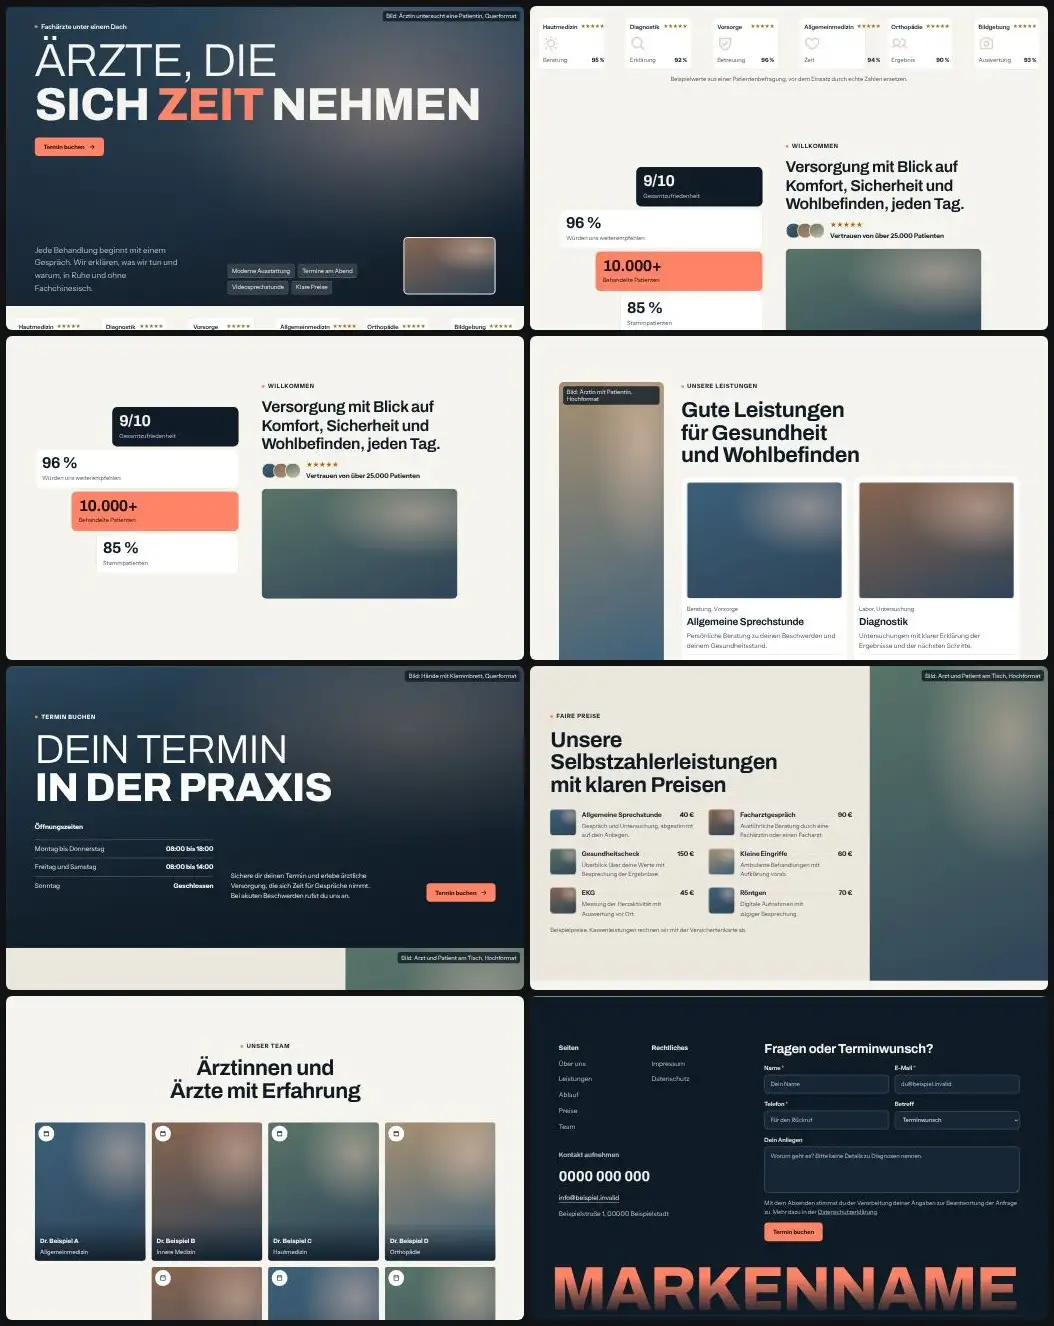
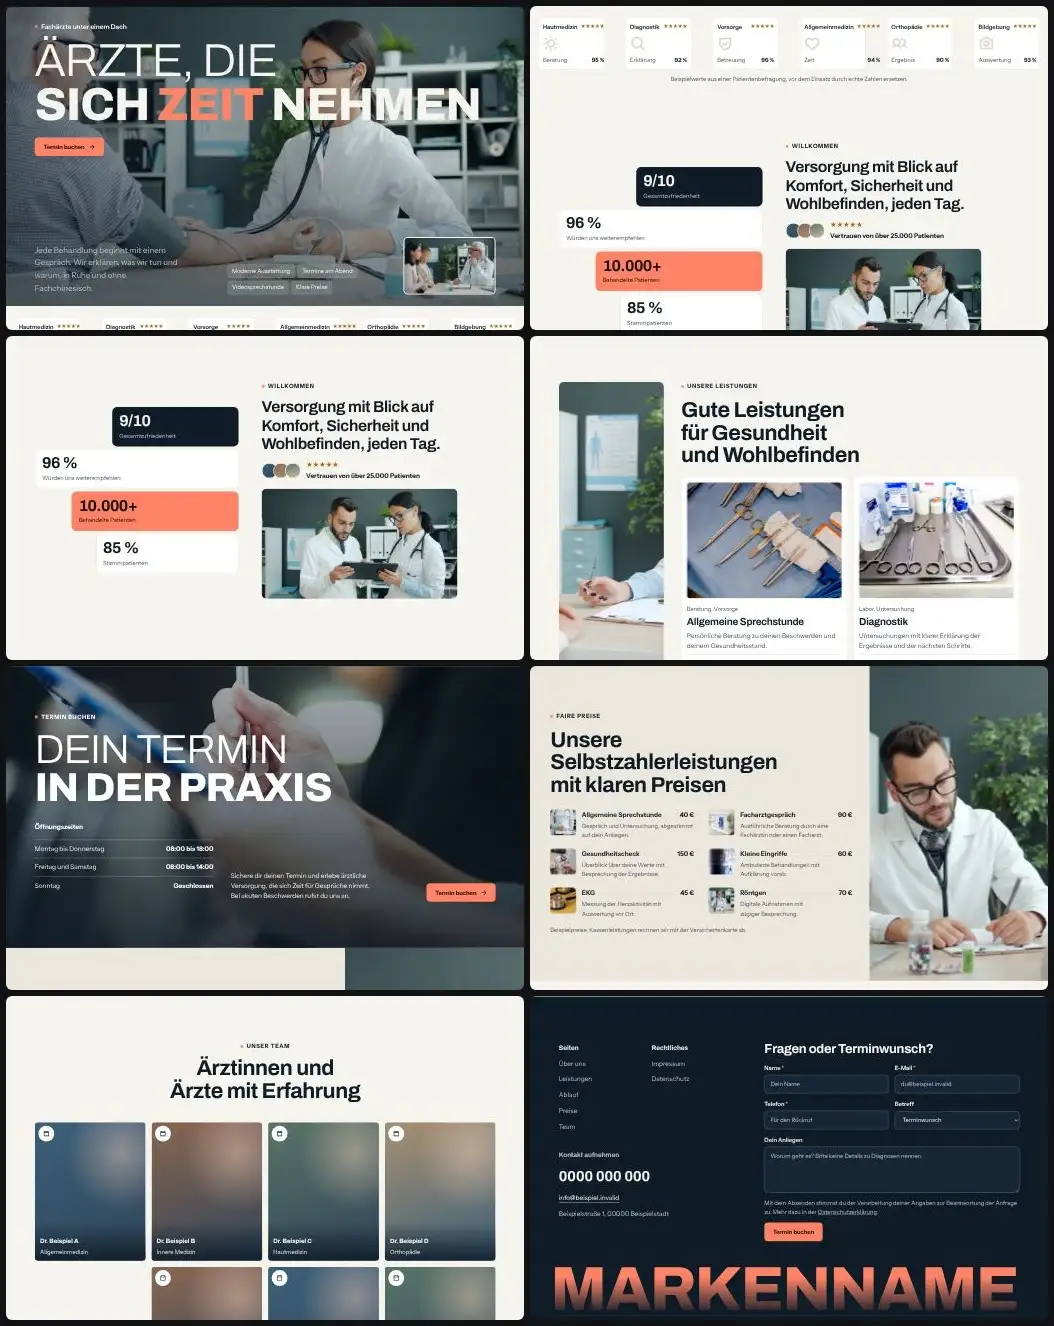
Bibliothek t62: Beispielfotos (Unsplash) eingebaut, Vorschaubilder neu erzeugt
Claude-Session: https://claude.ai/code/session_01DoGuL1bwF3ewggMgZ4Cpvd

diff --git a/skills/webdesign-conversion/assets/vorlagen/bibliothek/t62/index.html b/skills/webdesign-conversion/assets/vorlagen/bibliothek/t62/index.html
@@ -62,7 +62,7 @@
 <main id="inhalt">
   <!-- 1. Held: dunkles Vollbild, riesige Versalschrift, Zeile mit Text, Merkmalen und Bildausschnitt -->
   <section class="held" id="top" aria-labelledby="h-held" data-abdunkeln>
-    <div class="bild held__bild bild--a" data-platzhalter="Bild: Ärztin untersucht eine Patientin, Querformat" role="img" aria-label="Platzhalter für ein Foto einer Untersuchung"></div>
+    <div class="bild held__bild bild--a"><img src="bilder/fa-blutdruck-messen.webp" width="1600" height="900" alt="Eine Ärztin misst den Blutdruck eines älteren Patienten" loading="lazy" decoding="async"></div>
     <div class="held__schleier" aria-hidden="true"></div>
     <div class="wrap held__innen">
       <div class="held__kopf" data-staffel>
@@ -78,7 +78,7 @@
           <li>Videosprechstunde</li>
           <li>Klare Preise</li>
         </ul>
-        <div class="bild held__ausschnitt bild--b" data-zeig="skala" role="img" aria-label="Platzhalter für ein Foto eines Arztes im Gespräch" data-platzhalter="Bild: Arzt im Gespräch"></div>
+        <div class="bild held__ausschnitt bild--b" data-zeig="skala"><img src="bilder/fa-arzt-gespraech.webp" width="800" height="450" alt="Ein Arzt im Gespräch am Schreibtisch" loading="lazy" decoding="async"></div>
       </div>
     </div>
   </section>
@@ -122,7 +122,7 @@
           <span class="avatare" aria-hidden="true"><i class="avatar--1"></i><i class="avatar--2"></i><i class="avatar--3"></i></span>
           <p><span class="ueber__sterne" aria-hidden="true">★★★★★</span><strong>Vertrauen von über 25.000 Patienten</strong></p>
         </div>
-        <div class="bild ueber__bild bild--c" data-zeig="skala" role="img" aria-label="Platzhalter für ein Foto eines Arztes mit Tablet" data-platzhalter="Bild: Arzt mit Tablet"></div>
+        <div class="bild ueber__bild bild--c" data-zeig="skala"><img src="bilder/fa-aerzte-tablet.webp" width="1000" height="563" alt="Zwei Ärzte besprechen sich an einem Tablet" loading="lazy" decoding="async"></div>
       </div>
     </div>
   </section>
@@ -130,17 +130,17 @@
   <!-- 4. Leistungen: hohes Bild bleibt stehen, Karten rechts -->
   <section class="sektion leistungen" id="leistungen" aria-labelledby="h-leistungen" data-reiter-gruppe>
     <div class="wrap leistungen__raster">
-      <div class="bild leistungen__bild bild--d" role="img" aria-label="Platzhalter für ein Foto einer Ärztin mit Patientin" data-platzhalter="Bild: Ärztin mit Patientin, Hochformat"></div>
+      <div class="bild leistungen__bild bild--d"><img src="bilder/fa-aerztin-patient.webp" width="800" height="450" alt="Eine Ärztin im Gespräch mit einem Patienten am Schreibtisch" loading="lazy" decoding="async"></div>
       <div class="leistungen__inhalt">
         <p class="ueber__kicker" data-zeig><span class="punkt" aria-hidden="true"></span>Unsere Leistungen</p>
         <h2 id="h-leistungen" data-zeig>Gute Leistungen für Gesundheit und Wohlbefinden</h2>
         <ul class="spur" data-reiter-spur tabindex="0" role="region" aria-label="Leistungen, seitlich wischen" data-staffel>
-          <li data-zeig><article class="lkarte"><div class="bild lkarte__bild bild--a" role="img" aria-label="Platzhalter für ein Foto" data-platzhalter="Bild"></div><p class="lkarte__tags">Beratung, Vorsorge</p><h3>Allgemeine Sprechstunde</h3><p>Persönliche Beratung zu deinen Beschwerden und deinem Gesundheitsstand.</p><a class="lkarte__mehr" href="#kontakt"><span>Mehr erfahren</span><span class="plus" aria-hidden="true"><svg width="16" height="16" focusable="false"><use href="#i-plus"/></svg></span></a></article></li>
-          <li data-zeig><article class="lkarte"><div class="bild lkarte__bild bild--b" role="img" aria-label="Platzhalter für ein Foto" data-platzhalter="Bild"></div><p class="lkarte__tags">Labor, Untersuchung</p><h3>Diagnostik</h3><p>Untersuchungen mit klarer Erklärung der Ergebnisse und der nächsten Schritte.</p><a class="lkarte__mehr" href="#kontakt"><span>Mehr erfahren</span><span class="plus" aria-hidden="true"><svg width="16" height="16" focusable="false"><use href="#i-plus"/></svg></span></a></article></li>
-          <li data-zeig><article class="lkarte"><div class="bild lkarte__bild bild--c" role="img" aria-label="Platzhalter für ein Foto" data-platzhalter="Bild"></div><p class="lkarte__tags">Gelenke, Bewegung</p><h3>Orthopädie</h3><p>Beratung und Behandlung bei Beschwerden von Rücken, Gelenken und Muskeln.</p><a class="lkarte__mehr" href="#kontakt"><span>Mehr erfahren</span><span class="plus" aria-hidden="true"><svg width="16" height="16" focusable="false"><use href="#i-plus"/></svg></span></a></article></li>
-          <li data-zeig><article class="lkarte"><div class="bild lkarte__bild bild--d" role="img" aria-label="Platzhalter für ein Foto" data-platzhalter="Bild"></div><p class="lkarte__tags">Vorsorge, Kontrolle</p><h3>Herz und Kreislauf</h3><p>Regelmäßige Kontrollen und Gespräche, damit du deine Werte im Blick behältst.</p><a class="lkarte__mehr" href="#kontakt"><span>Mehr erfahren</span><span class="plus" aria-hidden="true"><svg width="16" height="16" focusable="false"><use href="#i-plus"/></svg></span></a></article></li>
-          <li data-zeig><article class="lkarte"><div class="bild lkarte__bild bild--b" role="img" aria-label="Platzhalter für ein Foto" data-platzhalter="Bild"></div><p class="lkarte__tags">Prophylaxe, Behandlung</p><h3>Zahnmedizin</h3><p>Vorsorge und Behandlung für gesunde Zähne, ohne Hektik im Behandlungsstuhl.</p><a class="lkarte__mehr" href="#kontakt"><span>Mehr erfahren</span><span class="plus" aria-hidden="true"><svg width="16" height="16" focusable="false"><use href="#i-plus"/></svg></span></a></article></li>
-          <li data-zeig><article class="lkarte"><div class="bild lkarte__bild bild--a" role="img" aria-label="Platzhalter für ein Foto" data-platzhalter="Bild"></div><p class="lkarte__tags">Röntgen, Auswertung</p><h3>Bildgebung</h3><p>Aufnahmen mit schneller Auswertung und einer Besprechung, die du verstehst.</p><a class="lkarte__mehr" href="#kontakt"><span>Mehr erfahren</span><span class="plus" aria-hidden="true"><svg width="16" height="16" focusable="false"><use href="#i-plus"/></svg></span></a></article></li>
+          <li data-zeig><article class="lkarte"><div class="bild lkarte__bild bild--a"><img src="bilder/fa-instrumente-tuch.webp" width="600" height="400" alt="Medizinische Instrumente auf einem blauen Tuch" loading="lazy" decoding="async"></div><p class="lkarte__tags">Beratung, Vorsorge</p><h3>Allgemeine Sprechstunde</h3><p>Persönliche Beratung zu deinen Beschwerden und deinem Gesundheitsstand.</p><a class="lkarte__mehr" href="#kontakt"><span>Mehr erfahren</span><span class="plus" aria-hidden="true"><svg width="16" height="16" focusable="false"><use href="#i-plus"/></svg></span></a></article></li>
+          <li data-zeig><article class="lkarte"><div class="bild lkarte__bild bild--b"><img src="bilder/fa-instrumente-tablett.webp" width="600" height="400" alt="Metalltablett mit Scheren und Verbandsmaterial" loading="lazy" decoding="async"></div><p class="lkarte__tags">Labor, Untersuchung</p><h3>Diagnostik</h3><p>Untersuchungen mit klarer Erklärung der Ergebnisse und der nächsten Schritte.</p><a class="lkarte__mehr" href="#kontakt"><span>Mehr erfahren</span><span class="plus" aria-hidden="true"><svg width="16" height="16" focusable="false"><use href="#i-plus"/></svg></span></a></article></li>
+          <li data-zeig><article class="lkarte"><div class="bild lkarte__bild bild--c"><img src="bilder/fa-stethoskop-schwarzweiss.webp" width="600" height="450" alt="Stethoskope in Schwarzweiß" loading="lazy" decoding="async"></div><p class="lkarte__tags">Gelenke, Bewegung</p><h3>Orthopädie</h3><p>Beratung und Behandlung bei Beschwerden von Rücken, Gelenken und Muskeln.</p><a class="lkarte__mehr" href="#kontakt"><span>Mehr erfahren</span><span class="plus" aria-hidden="true"><svg width="16" height="16" focusable="false"><use href="#i-plus"/></svg></span></a></article></li>
+          <li data-zeig><article class="lkarte"><div class="bild lkarte__bild bild--d"><img src="bilder/fa-blutdruckmessgeraet.webp" width="600" height="400" alt="Digitales Blutdruckmessgerät mit Manschette am Arm" loading="lazy" decoding="async"></div><p class="lkarte__tags">Vorsorge, Kontrolle</p><h3>Herz und Kreislauf</h3><p>Regelmäßige Kontrollen und Gespräche, damit du deine Werte im Blick behältst.</p><a class="lkarte__mehr" href="#kontakt"><span>Mehr erfahren</span><span class="plus" aria-hidden="true"><svg width="16" height="16" focusable="false"><use href="#i-plus"/></svg></span></a></article></li>
+          <li data-zeig><article class="lkarte"><div class="bild lkarte__bild bild--b"><img src="bilder/fa-ekg-streifen.webp" width="600" height="400" alt="Hände mit Handschuhen auf einem EKG Streifen, daneben ein Stethoskop" loading="lazy" decoding="async"></div><p class="lkarte__tags">Prophylaxe, Behandlung</p><h3>Zahnmedizin</h3><p>Vorsorge und Behandlung für gesunde Zähne, ohne Hektik im Behandlungsstuhl.</p><a class="lkarte__mehr" href="#kontakt"><span>Mehr erfahren</span><span class="plus" aria-hidden="true"><svg width="16" height="16" focusable="false"><use href="#i-plus"/></svg></span></a></article></li>
+          <li data-zeig><article class="lkarte"><div class="bild lkarte__bild bild--a"><img src="bilder/fa-stethoskop-blau.webp" width="600" height="400" alt="Stethoskop auf hellblauem Hintergrund" loading="lazy" decoding="async"></div><p class="lkarte__tags">Röntgen, Auswertung</p><h3>Bildgebung</h3><p>Aufnahmen mit schneller Auswertung und einer Besprechung, die du verstehst.</p><a class="lkarte__mehr" href="#kontakt"><span>Mehr erfahren</span><span class="plus" aria-hidden="true"><svg width="16" height="16" focusable="false"><use href="#i-plus"/></svg></span></a></article></li>
         </ul>
         <div class="steuerung" data-reiter-steuerung hidden>
           <button class="rund" type="button" data-reiter="zurueck" aria-label="Vorherige Leistung"><svg width="20" height="20" aria-hidden="true" focusable="false"><use href="#i-arrow-left"/></svg></button>
@@ -163,15 +163,15 @@
         <ol class="ablauf__schritte">
           <li class="schritt" data-schritt data-aktiv>
             <div class="schritt__text"><span class="schritt__buchstabe" aria-hidden="true">A</span><h3>Fachbereich und Arzt finden</h3><p>Sieh dir unsere Fachbereiche an und wähle den Bereich, der zu deinem Anliegen passt. Du siehst, wer dich behandelt.</p><a class="knopf" href="#kontakt">Kontakt aufnehmen<svg width="18" height="18" aria-hidden="true" focusable="false"><use href="#i-arrow-right"/></svg></a></div>
-            <div class="bild schritt__bild bild--a" role="img" aria-label="Platzhalter für ein Foto von zwei Händen" data-platzhalter="Bild: Hände, Nahaufnahme"></div>
+            <div class="bild schritt__bild bild--a"><img src="bilder/fa-haende-klemmbrett.webp" width="1000" height="667" alt="Hände schreiben mit einem Stift auf ein Klemmbrett" loading="lazy" decoding="async"></div>
           </li>
           <li class="schritt" data-schritt>
             <div class="schritt__text"><span class="schritt__buchstabe" aria-hidden="true">B</span><h3>Einen Termin buchen, der in deinen Tag passt</h3><p>Wähle Arzt, Datum und Uhrzeit. Du bestätigst über das Formular oder per Telefon und bekommst eine Erinnerung.</p><a class="knopf" href="#kontakt">Kontakt aufnehmen<svg width="18" height="18" aria-hidden="true" focusable="false"><use href="#i-arrow-right"/></svg></a></div>
-            <div class="bild schritt__bild bild--c" role="img" aria-label="Platzhalter für ein Foto einer Frau mit Telefon" data-platzhalter="Bild: Frau bucht per Telefon"></div>
+            <div class="bild schritt__bild bild--c"><img src="bilder/fa-frau-telefon-laptop.webp" width="1000" height="563" alt="Eine Frau telefoniert am Schreibtisch vor einem Laptop" loading="lazy" decoding="async"></div>
           </li>
           <li class="schritt" data-schritt>
             <div class="schritt__text"><span class="schritt__buchstabe" aria-hidden="true">C</span><h3>Persönlich betreut werden</h3><p>Wir besprechen dein Anliegen, erklären die nächsten Schritte und bleiben auch danach für Rückfragen erreichbar.</p><a class="knopf" href="#kontakt">Kontakt aufnehmen<svg width="18" height="18" aria-hidden="true" focusable="false"><use href="#i-arrow-right"/></svg></a></div>
-            <div class="bild schritt__bild bild--b" role="img" aria-label="Platzhalter für ein Foto eines Beratungsgesprächs" data-platzhalter="Bild: Beratungsgespräch"></div>
+            <div class="bild schritt__bild bild--b"><img src="bilder/fa-gespraech-schreibtisch.webp" width="1000" height="563" alt="Gespräch am Schreibtisch in einer Praxis" loading="lazy" decoding="async"></div>
           </li>
         </ol>
         <ol class="stufen" aria-label="Schritte" hidden>
@@ -185,7 +185,7 @@
 
   <!-- 6. Termin: dunkles Vollbild mit Öffnungszeiten -->
   <section class="buchung" id="termin" aria-labelledby="h-buchung">
-    <div class="bild buchung__bild bild--e" role="img" aria-label="Platzhalter für ein Foto von Händen mit Klemmbrett" data-platzhalter="Bild: Hände mit Klemmbrett, Querformat"></div>
+    <div class="bild buchung__bild bild--e"><img src="bilder/fa-stift-klemmbrett-blau.webp" width="1000" height="667" alt="Eine Hand hält einen Stift über einem blauen Klemmbrett" loading="lazy" decoding="async"></div>
     <div class="buchung__schleier" aria-hidden="true"></div>
     <div class="wrap buchung__innen">
       <p class="ueber__kicker ueber__kicker--hell" data-zeig><span class="punkt" aria-hidden="true"></span>Termin buchen</p>
@@ -212,16 +212,16 @@
         <p class="ueber__kicker" data-zeig><span class="punkt" aria-hidden="true"></span>Faire Preise</p>
         <h2 id="h-preise" data-zeig>Unsere Selbstzahlerleistungen mit klaren Preisen</h2>
         <ul class="preisliste" data-staffel data-beispiel>
-          <li data-zeig><div class="bild preisliste__bild bild--a" role="img" aria-label="Platzhalter für ein Foto" data-platzhalter="Bild"></div><div><p class="preisliste__kopf"><strong>Allgemeine Sprechstunde</strong><span class="preisliste__linie" aria-hidden="true"></span><span class="preisliste__preis">40 €</span></p><p>Gespräch und Untersuchung, abgestimmt auf dein Anliegen.</p></div></li>
-          <li data-zeig><div class="bild preisliste__bild bild--b" role="img" aria-label="Platzhalter für ein Foto" data-platzhalter="Bild"></div><div><p class="preisliste__kopf"><strong>Facharztgespräch</strong><span class="preisliste__linie" aria-hidden="true"></span><span class="preisliste__preis">90 €</span></p><p>Ausführliche Beratung durch eine Fachärztin oder einen Facharzt.</p></div></li>
-          <li data-zeig><div class="bild preisliste__bild bild--c" role="img" aria-label="Platzhalter für ein Foto" data-platzhalter="Bild"></div><div><p class="preisliste__kopf"><strong>Gesundheitscheck</strong><span class="preisliste__linie" aria-hidden="true"></span><span class="preisliste__preis">150 €</span></p><p>Überblick über deine Werte mit Besprechung der Ergebnisse.</p></div></li>
-          <li data-zeig><div class="bild preisliste__bild bild--d" role="img" aria-label="Platzhalter für ein Foto" data-platzhalter="Bild"></div><div><p class="preisliste__kopf"><strong>Kleine Eingriffe</strong><span class="preisliste__linie" aria-hidden="true"></span><span class="preisliste__preis">60 €</span></p><p>Ambulante Behandlungen mit Aufklärung vorab.</p></div></li>
-          <li data-zeig><div class="bild preisliste__bild bild--b" role="img" aria-label="Platzhalter für ein Foto" data-platzhalter="Bild"></div><div><p class="preisliste__kopf"><strong>EKG</strong><span class="preisliste__linie" aria-hidden="true"></span><span class="preisliste__preis">45 €</span></p><p>Messung der Herzaktivität mit Auswertung vor Ort.</p></div></li>
-          <li data-zeig><div class="bild preisliste__bild bild--a" role="img" aria-label="Platzhalter für ein Foto" data-platzhalter="Bild"></div><div><p class="preisliste__kopf"><strong>Röntgen</strong><span class="preisliste__linie" aria-hidden="true"></span><span class="preisliste__preis">70 €</span></p><p>Digitale Aufnahmen mit zügiger Besprechung.</p></div></li>
+          <li data-zeig><div class="bild preisliste__bild bild--a"><img src="bilder/fa-notizen-kittel.webp" width="600" height="338" alt="Eine Ärztin schreibt Notizen auf ein Klemmbrett" loading="lazy" decoding="async"></div><div><p class="preisliste__kopf"><strong>Allgemeine Sprechstunde</strong><span class="preisliste__linie" aria-hidden="true"></span><span class="preisliste__preis">40 €</span></p><p>Gespräch und Untersuchung, abgestimmt auf dein Anliegen.</p></div></li>
+          <li data-zeig><div class="bild preisliste__bild bild--b"><img src="bilder/fa-wandanschluss-medizin.webp" width="600" height="399" alt="Medizinischer Wandanschluss mit Durchflussmesser" loading="lazy" decoding="async"></div><div><p class="preisliste__kopf"><strong>Facharztgespräch</strong><span class="preisliste__linie" aria-hidden="true"></span><span class="preisliste__preis">90 €</span></p><p>Ausführliche Beratung durch eine Fachärztin oder einen Facharzt.</p></div></li>
+          <li data-zeig><div class="bild preisliste__bild bild--c"><img src="bilder/fa-blutzucker-messen.webp" width="600" height="400" alt="Hände beim Messen des Blutzuckers" loading="lazy" decoding="async"></div><div><p class="preisliste__kopf"><strong>Gesundheitscheck</strong><span class="preisliste__linie" aria-hidden="true"></span><span class="preisliste__preis">150 €</span></p><p>Überblick über deine Werte mit Besprechung der Ergebnisse.</p></div></li>
+          <li data-zeig><div class="bild preisliste__bild bild--d"><img src="bilder/fa-geraete-regal.webp" width="600" height="400" alt="Medizinische Geräte in einem Regal" loading="lazy" decoding="async"></div><div><p class="preisliste__kopf"><strong>Kleine Eingriffe</strong><span class="preisliste__linie" aria-hidden="true"></span><span class="preisliste__preis">60 €</span></p><p>Ambulante Behandlungen mit Aufklärung vorab.</p></div></li>
+          <li data-zeig><div class="bild preisliste__bild bild--b"><img src="bilder/fa-stethoskop-gelb.webp" width="600" height="400" alt="Stethoskop auf gelbem Hintergrund" loading="lazy" decoding="async"></div><div><p class="preisliste__kopf"><strong>EKG</strong><span class="preisliste__linie" aria-hidden="true"></span><span class="preisliste__preis">45 €</span></p><p>Messung der Herzaktivität mit Auswertung vor Ort.</p></div></li>
+          <li data-zeig><div class="bild preisliste__bild bild--a"><img src="bilder/fa-aerztin-beratung.webp" width="600" height="338" alt="Eine Ärztin im Beratungsgespräch" loading="lazy" decoding="async"></div><div><p class="preisliste__kopf"><strong>Röntgen</strong><span class="preisliste__linie" aria-hidden="true"></span><span class="preisliste__preis">70 €</span></p><p>Digitale Aufnahmen mit zügiger Besprechung.</p></div></li>
         </ul>
         <p class="preise__hinweis" data-beispiel>Beispielpreise. Kassenleistungen rechnen wir mit der Versichertenkarte ab.</p>
       </div>
-      <div class="bild preise__bild bild--c" role="img" aria-label="Platzhalter für ein Foto von Arzt und Patient am Tisch" data-platzhalter="Bild: Arzt und Patient am Tisch, Hochformat"></div>
+      <div class="bild preise__bild bild--c"><img src="bilder/fa-arzt-notizen.webp" width="800" height="450" alt="Ein Arzt macht Notizen im Gespräch mit einer Patientin" loading="lazy" decoding="async"></div>
     </div>
   </section>
 

diff --git a/skills/webdesign-conversion/assets/vorlagen/bibliothek/t62/BILDER.md b/skills/webdesign-conversion/assets/vorlagen/bibliothek/t62/BILDER.md
@@ -1,0 +1,39 @@
+# Bilder t62
+
+Alle Fotos von Unsplash, abgerufen am 25.11.2026. Titel und Lizenz stehen so auf der Seite des Fotos (Titel von Unsplash automatisch vergeben), als Fotograf ist das Unsplash Profil angegeben, weil die Seite den Namen nur als Profillink zeigte. Lizenz ist jeweils die Unsplash Lizenz.
+
+| Datei | Platz | Foto Titel | Fotograf (Profil) | Seite | Lizenz | Abruf |
+|---|---|---|---|---|---|---|
+| fa-blutdruck-messen.webp.webp | Held | Der Arzt misst den Blutdruck des älteren Patienten | @silverkblack | https://unsplash.com/photos/96Eiu2AdZG0 | Unsplash Lizenz | 25.11.2026 |
+| fa-arzt-gespraech.webp.webp | Held Ausschnitt | Arzt spricht mit Mutter und Kind am Schreibtisch | @silverkblack | https://unsplash.com/photos/6eDFSCSwkSo | Unsplash Lizenz | 25.11.2026 |
+| fa-aerzte-tablet.webp.webp | Über uns | Zwei Ärzte, die gemeinsam eine Tablette betrachten | @silverkblack | https://unsplash.com/photos/2kopEHjST-g | Unsplash Lizenz | 25.11.2026 |
+| fa-aerztin-patient.webp.webp | Leistungen | Arztberatung, die einen Patienten in einer Praxis konsultiert | @silverkblack | https://unsplash.com/photos/MJmsLpeHPfg | Unsplash Lizenz | 25.11.2026 |
+| fa-instrumente-tuch.webp.webp | Leistungskarte 1 | ein hölzernes Schneidebrett | @jonathanborba | https://unsplash.com/photos/zNmTJzKdark | Unsplash Lizenz | 25.11.2026 |
+| fa-instrumente-tablett.webp.webp | Leistungskarte 2 | ein Metalltablett mit einer Schere und anderen medizinischen Hilfsmitteln | @mattreyes7 | https://unsplash.com/photos/G-1T9ECL5ic | Unsplash Lizenz | 25.11.2026 |
+| fa-stethoskop-schwarzweiss.webp.webp | Leistungskarte 3 | schwarz-silbernes Fahrradrad | @kmcv | https://unsplash.com/photos/ji-wnYyEYjs | Unsplash Lizenz | 25.11.2026 |
+| fa-blutdruckmessgeraet.webp.webp | Leistungskarte 4 | Eine Person, die ein digitales Blutdruckmessgerät mit einer grauen Manschette am Arm benutzt | @mockupgraphics | https://unsplash.com/photos/i1iqQRLULlg | Unsplash Lizenz | 25.11.2026 |
+| fa-ekg-streifen.webp.webp | Leistungskarte 5 | Person, die auf Whitepaper schreibt | @towfiqu999999 | https://unsplash.com/photos/QsBfOwMoPNY | Unsplash Lizenz | 25.11.2026 |
+| fa-stethoskop-blau.webp.webp | Leistungskarte 6 | Ein schwarzes medizinisches Stethoskop mit silbernem Brustteil auf hellblauem Hintergrund | @etactics | https://unsplash.com/photos/JkWMM8x1sLo | Unsplash Lizenz | 25.11.2026 |
+| fa-haende-klemmbrett.webp.webp | Schritt 1 | Hände, die mit einem Stift auf ein Klemmbrett schreiben | @zulfugarkarimov | https://unsplash.com/photos/IPeGLFSyhzg | Unsplash Lizenz | 25.11.2026 |
+| fa-frau-telefon-laptop.webp.webp | Schritt 2 | eine Frau, die an einem Tisch sitzt und einen Laptop benutzt | @silverkblack | https://unsplash.com/photos/TL20XFqqCEg | Unsplash Lizenz | 25.11.2026 |
+| fa-gespraech-schreibtisch.webp.webp | Schritt 3 | Arztberatung mit Patient am Schreibtisch | @silverkblack | https://unsplash.com/photos/GBcLdqOBbXE | Unsplash Lizenz | 25.11.2026 |
+| fa-stift-klemmbrett-blau.webp.webp | Buchung | Die Hand hält den Stift über einem blauen Klemmbrett | @philhearing | https://unsplash.com/photos/eXcF6L9pEug | Unsplash Lizenz | 25.11.2026 |
+| fa-notizen-kittel.webp.webp | Preisliste 1 | Arzt schreibt auf Klemmbrett im Büro | @silverkblack | https://unsplash.com/photos/xDNwySMfR5I | Unsplash Lizenz | 25.11.2026 |
+| fa-wandanschluss-medizin.webp.webp | Preisliste 2 | weißer und blauer elektrischer Schalter | @porkbellysteve | https://unsplash.com/photos/gfs3RInT9-k | Unsplash Lizenz | 25.11.2026 |
+| fa-blutzucker-messen.webp.webp | Preisliste 3 | eine Person, die den Blutzucker testet | @sweetlifediabetes | https://unsplash.com/photos/bPRZiasA8SM | Unsplash Lizenz | 25.11.2026 |
+| fa-geraete-regal.webp.webp | Preisliste 4 | weiße und schwarze elektrische Nähmaschine | @testalizeme | https://unsplash.com/photos/UmJKil_edI8 | Unsplash Lizenz | 25.11.2026 |
+| fa-stethoskop-gelb.webp.webp | Preisliste 5 | eine Nahaufnahme eines Sprechers | @etactics | https://unsplash.com/photos/z5iSCz0qKXY | Unsplash Lizenz | 25.11.2026 |
+| fa-aerztin-beratung.webp.webp | Preisliste 6 | Der Arzt berät sich mit dem Patienten in der Arztpraxis | @silverkblack | https://unsplash.com/photos/iyeUwItlIPk | Unsplash Lizenz | 25.11.2026 |
+| fa-arzt-notizen.webp.webp | Preise | Der Arzt schreibt Notizen, während der Patient gegenüber sitzt | @silverkblack | https://unsplash.com/photos/XjpH81N6rDc | Unsplash Lizenz | 25.11.2026 |
+
+## Hinweise
+
+* Alle Fotos zeigen Stockpersonen als Atmosphäre, keine echten Ärzte oder Patienten. Vor Abgabe durch eigene Praxisfotos ersetzen.
+* Keine Heil oder Erfolgsversprechen im Bildtext.
+* Unsplash Titel passen oft nicht zum Bild (Schneidebrett, Fahrradrad, Schalter, Nähmaschine, Sprecher); der Alt Text beschreibt, was zu sehen ist.
+* Leistungskarten Zahnmedizin und Orthopädie zeigen allgemeine Praxismotive (EKG, Stethoskop), kein Fachbild. Gegen Fachbilder tauschen.
+* Das Blutzuckerbild und die Hände mit Handschuhen sind Medizinmotive ohne Gesicht.
+
+## Offen
+
+* 7 Porträts der Ärzte (Zeilen 236 bis 242)
